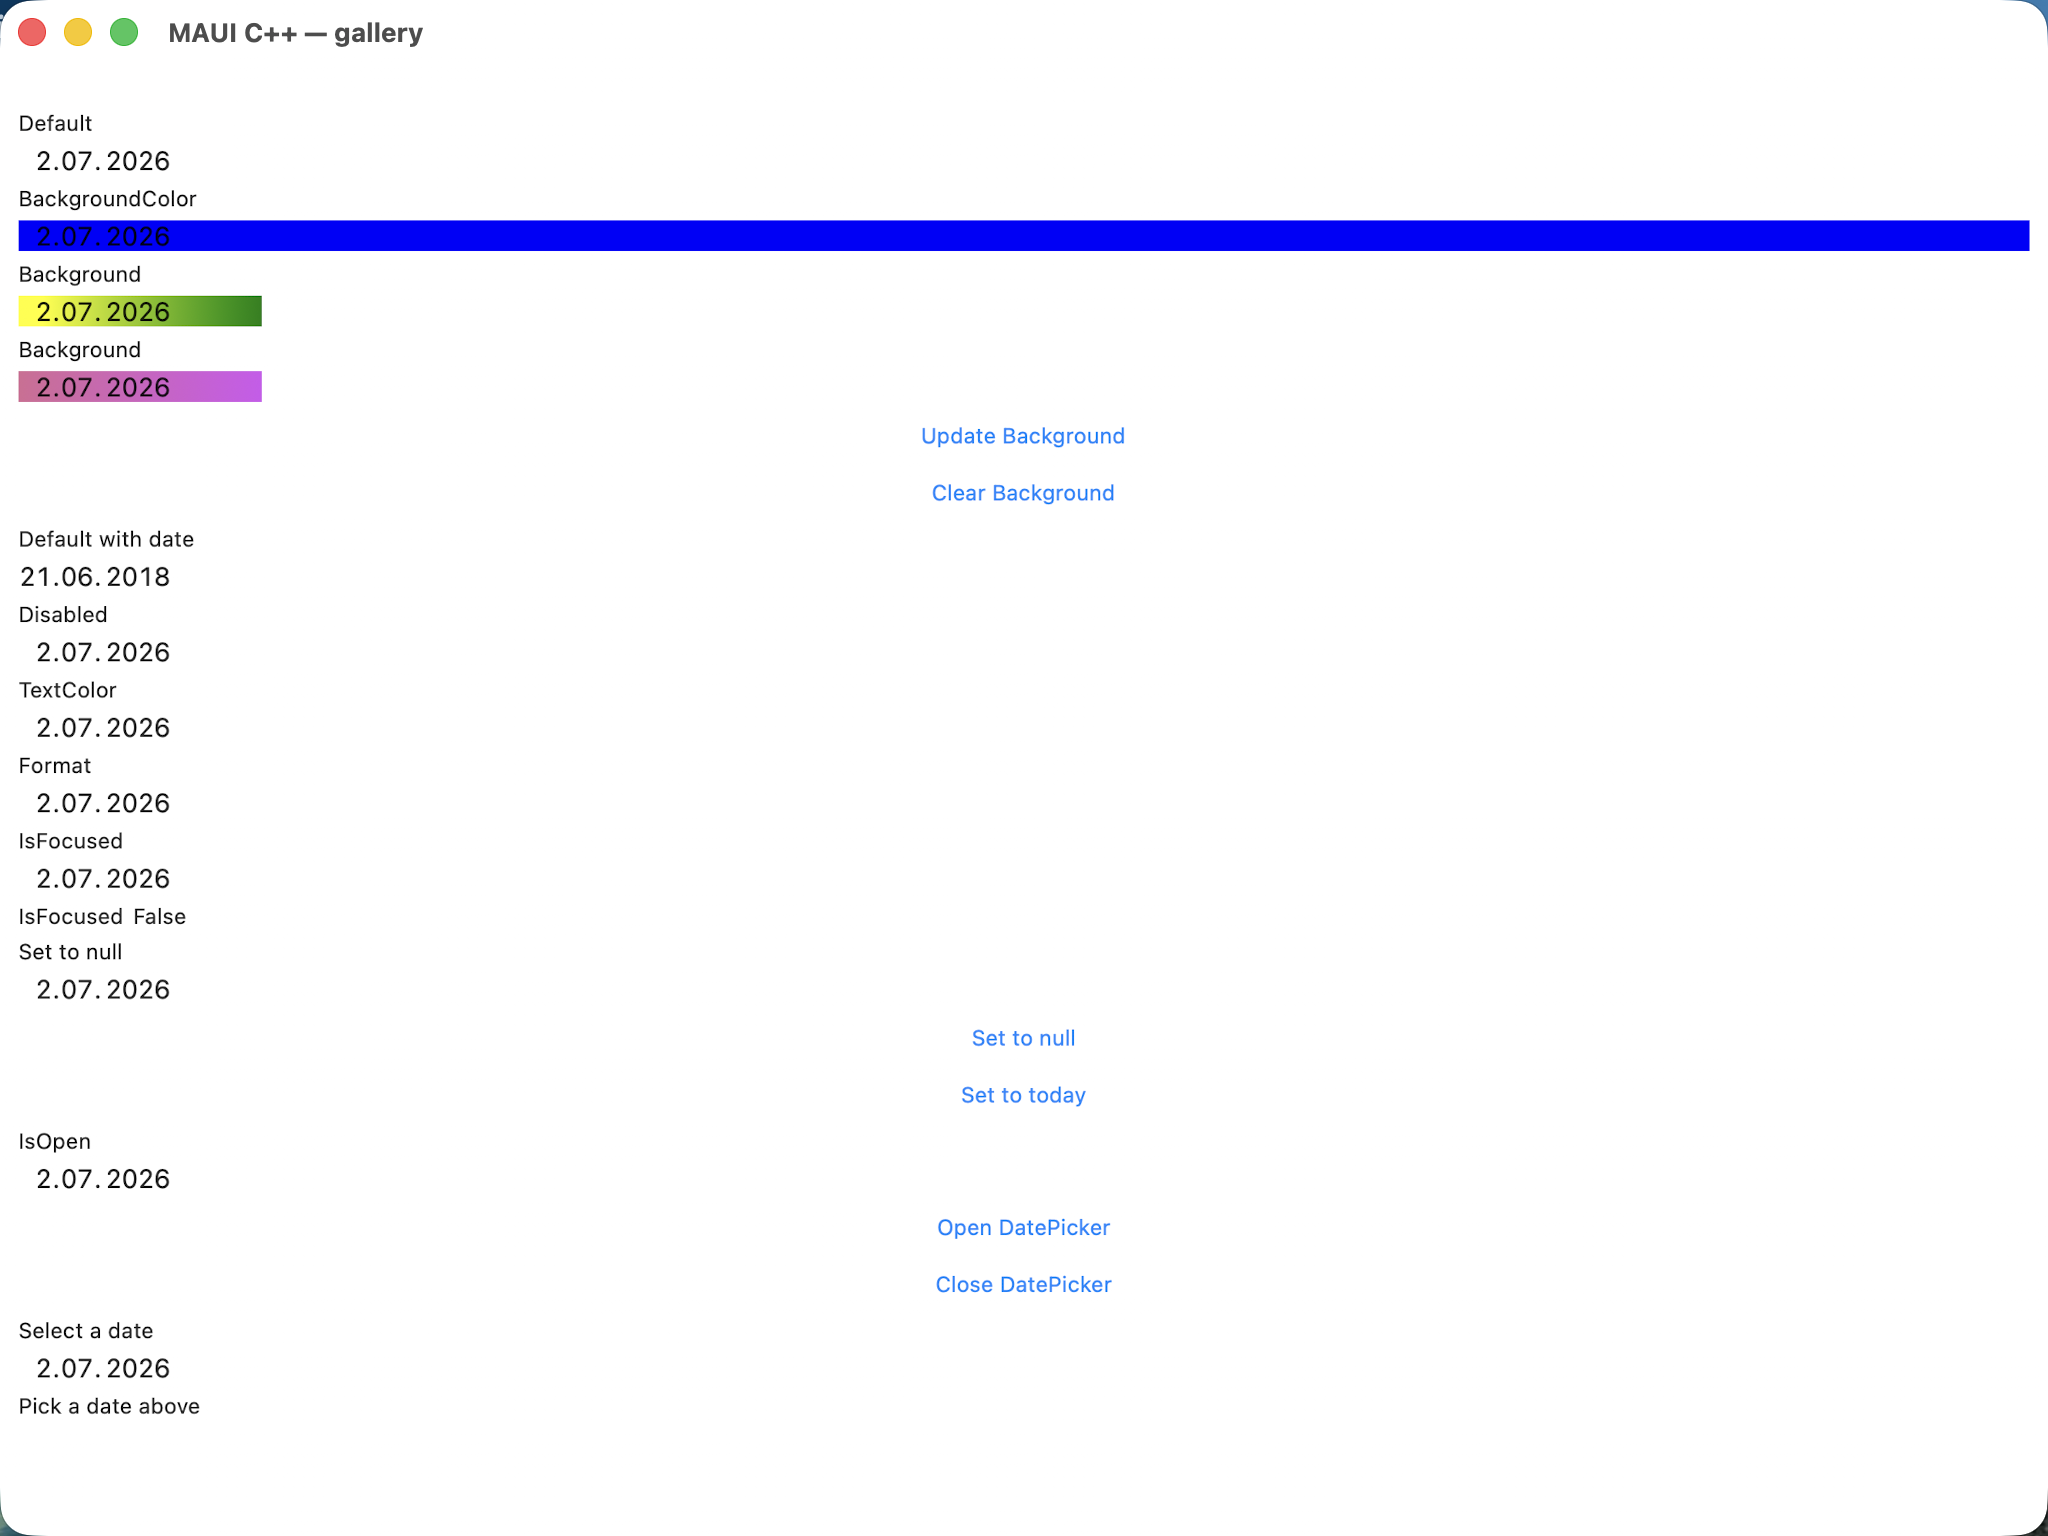
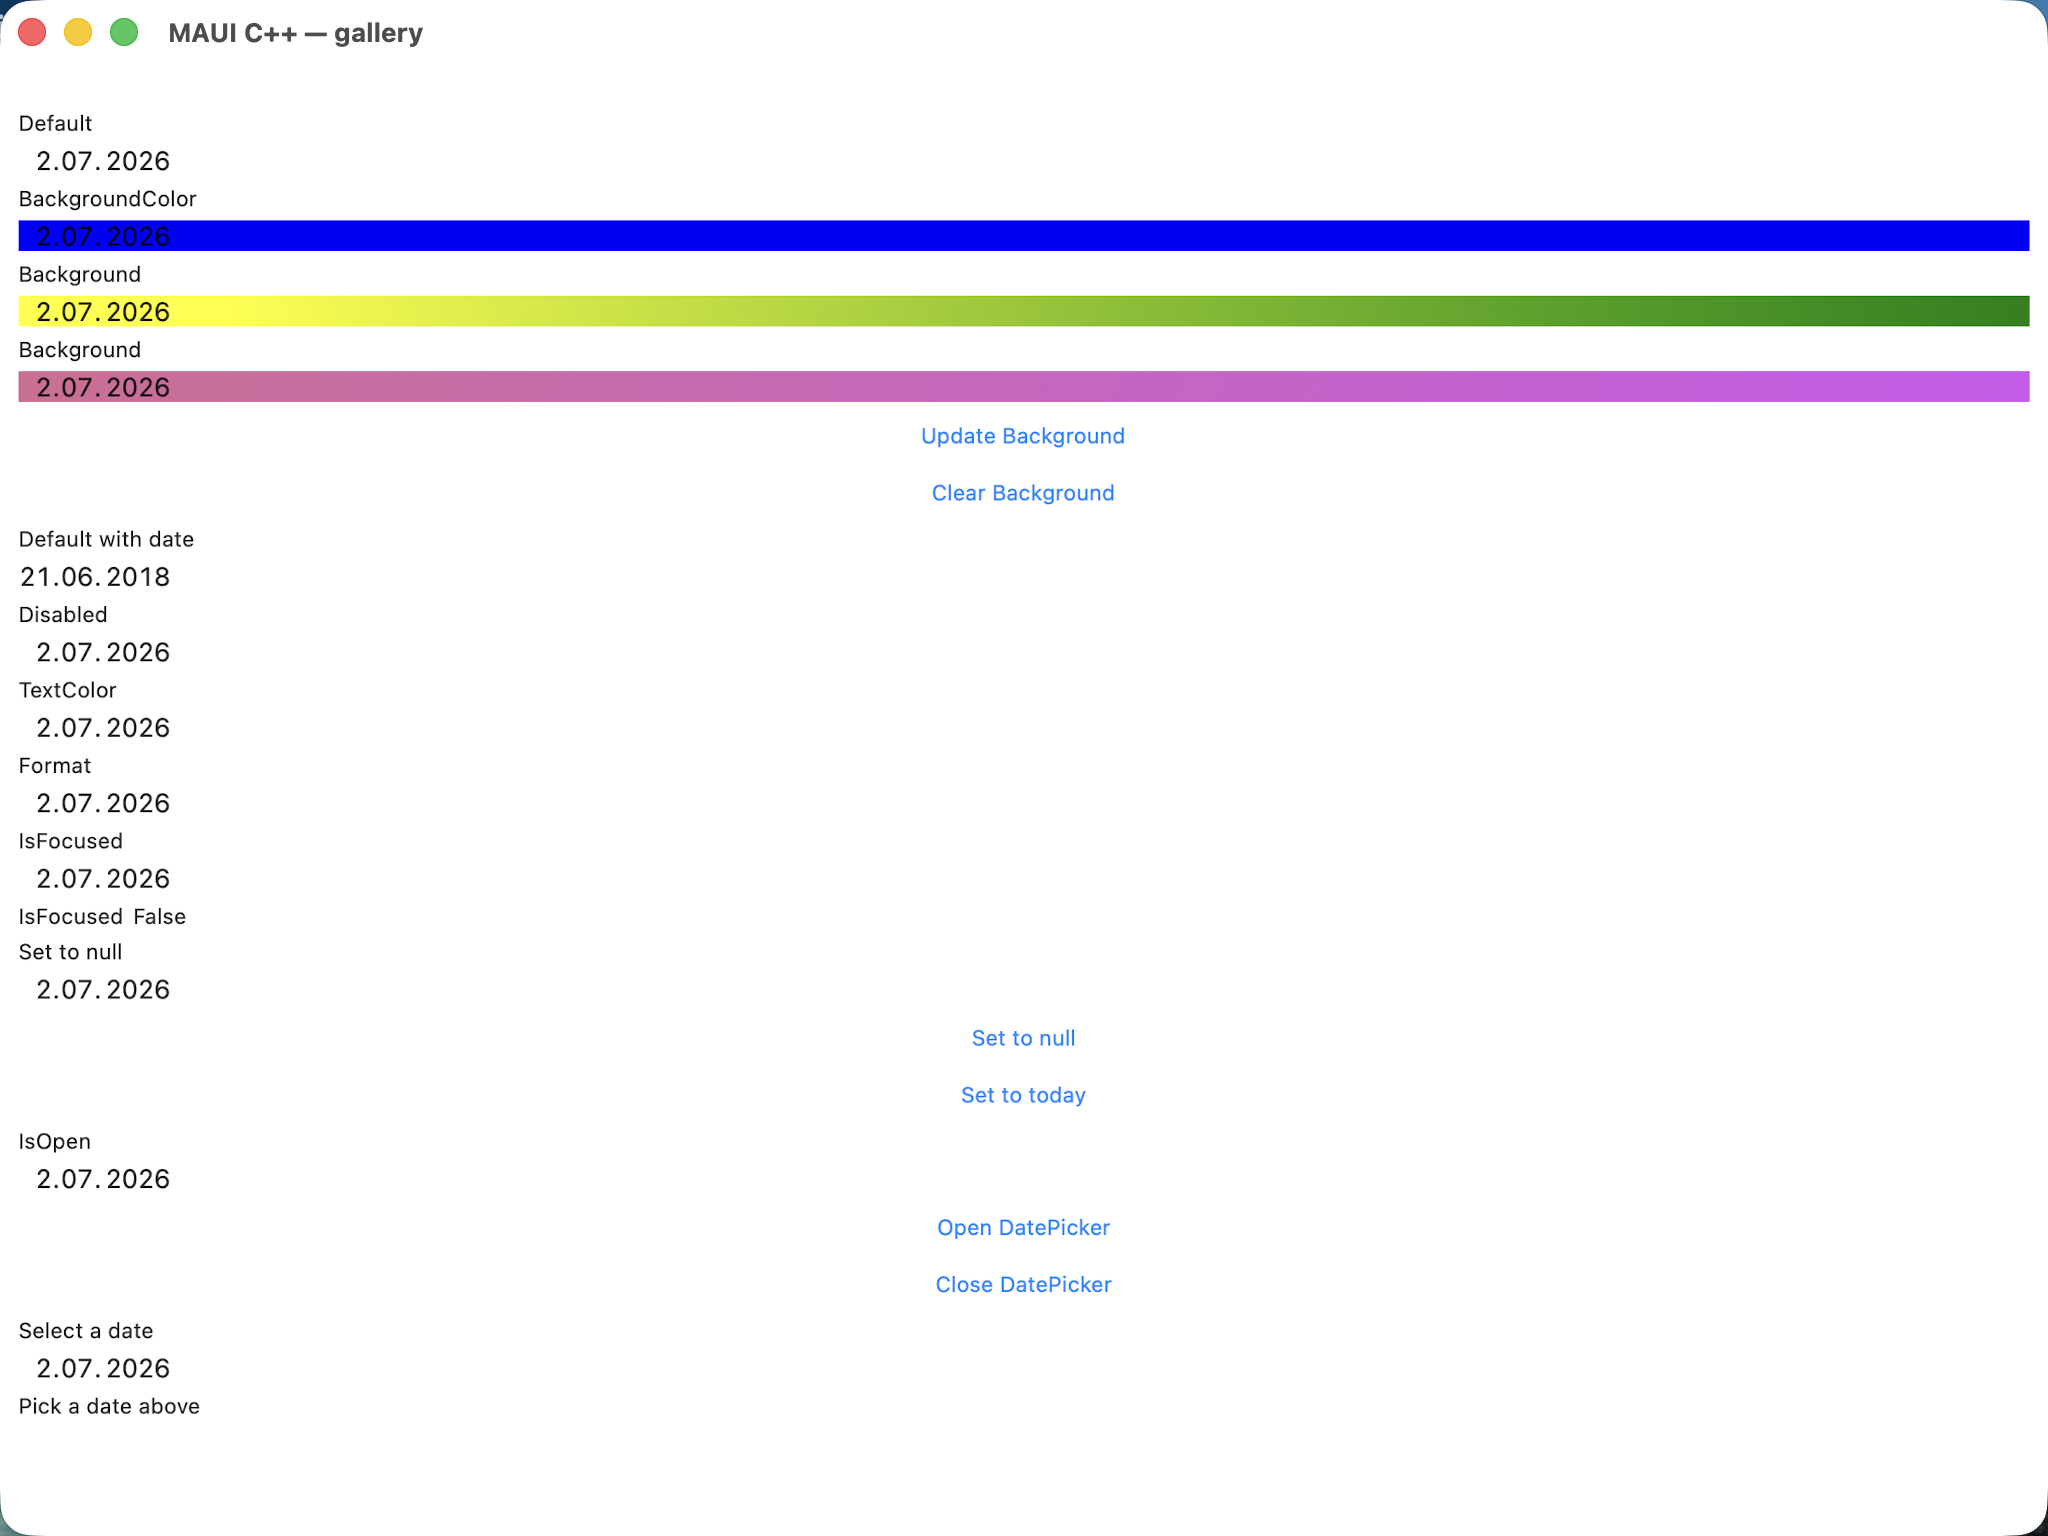
fix(maccatalyst,date_picker): resize gradient background to full frame
On Mac Catalyst the DatePicker's platform view is a BARE UIDatePicker (DatePickerHandler.MacCatalyst.cs
— no wrapping MauiDatePicker UITextField), so it lacked the layoutSubviews hook the iOS MauiIosDatePicker
has. apply_background installs a gradient/image background sublayer before arrange (bounds 0x0); with
nothing resizing it on layout, the gradient stayed content-sized and rendered only TEXT-WIDTH, while a
solid BackgroundColor (the UIView backgroundColor property) correctly filled the full-width frame. MAUI
paints the gradient full-width.

Subclass the Catalyst picker as MauiMacDatePicker : UIDatePicker with the same layoutSubviews override
(resize_background_layers + reapply_clip) the iOS field carries, and use it in create_platform_view.

date_picker now renders both gradient 'Background' bars full-width, matching MAUI: the static
Yellow->Green row is now pixel-parity, and the randomized 3rd row fills full-width too (its color still
differs from MAUI — it is a per-run RANDOM gradient and the port's std::minstd_rand != C#'s Random, an
inherent RNG divergence, not a layout bug). Isolated to the Catalyst date_picker native view; iOS keeps
MauiIosDatePicker, build maccatalyst rc=0.

Changed region(s): [[0.0312, 0.1875, 1.0, 0.2812]]

diff --git a/port/cpp/src/platform/ios/date_picker_handler.mm b/port/cpp/src/platform/ios/date_picker_handler.mm
@@ -66,6 +66,26 @@
 }
 @end
 
+#if TARGET_OS_MACCATALYST
+// MauiMacDatePicker — the bare UIDatePicker DatePickerHandler.MacCatalyst.cs presents (there is no wrapping
+// MauiDatePicker UITextField on Catalyst). It carries the SAME layoutSubviews hook the iOS MauiIosDatePicker
+// does: apply_background installs a gradient/image background sublayer before arrange (bounds 0×0), so
+// without a resize on each layout the brush fill would stay zero-/content-sized (rendering only text-width)
+// instead of filling the picker's full frame — matching MAUI's full-width gradient DatePicker fill. A solid
+// BackgroundColor needs no resize (it is the UIView backgroundColor property, which already fills bounds).
+@interface MauiMacDatePicker : UIDatePicker
+@end
+
+@implementation MauiMacDatePicker
+- (void)layoutSubviews
+{
+    [super layoutSubviews];
+    maui::platform::ios::resize_background_layers((__bridge void*)self);
+    maui::platform::ios::reapply_clip((__bridge void*)self);
+}
+@end
+#endif // TARGET_OS_MACCATALYST
+
 // Obj-C trampoline for the Done accessory tap — MauiDatePicker's DoneClicked feeding
 // DatePickerHandler.OnDoneClicked → SetVirtualViewDate.
 @interface MauiIosDatePickerDoneTarget : NSObject
@@ -395,7 +415,7 @@ namespace maui::core
         // UIDatePicker { Mode = Date, TimeZone = UTC } used directly — no wrapping MauiDatePicker UITextField
         // and no RoundedRect box. On Catalyst UIKit renders this as an inline segmented field with bare,
         // left-aligned, device-locale text (removing the bordered field boxes the reused iOS recipe drew).
-        UIDatePicker* const picker = [[UIDatePicker alloc] initWithFrame:CGRectZero];
+        UIDatePicker* const picker = [[MauiMacDatePicker alloc] initWithFrame:CGRectZero];
         picker.datePickerMode = UIDatePickerModeDate;
         picker.timeZone = [NSTimeZone timeZoneWithName:@"UTC"];
         platform->native = (__bridge_retained void*)picker; // the void* slot owns one reference
